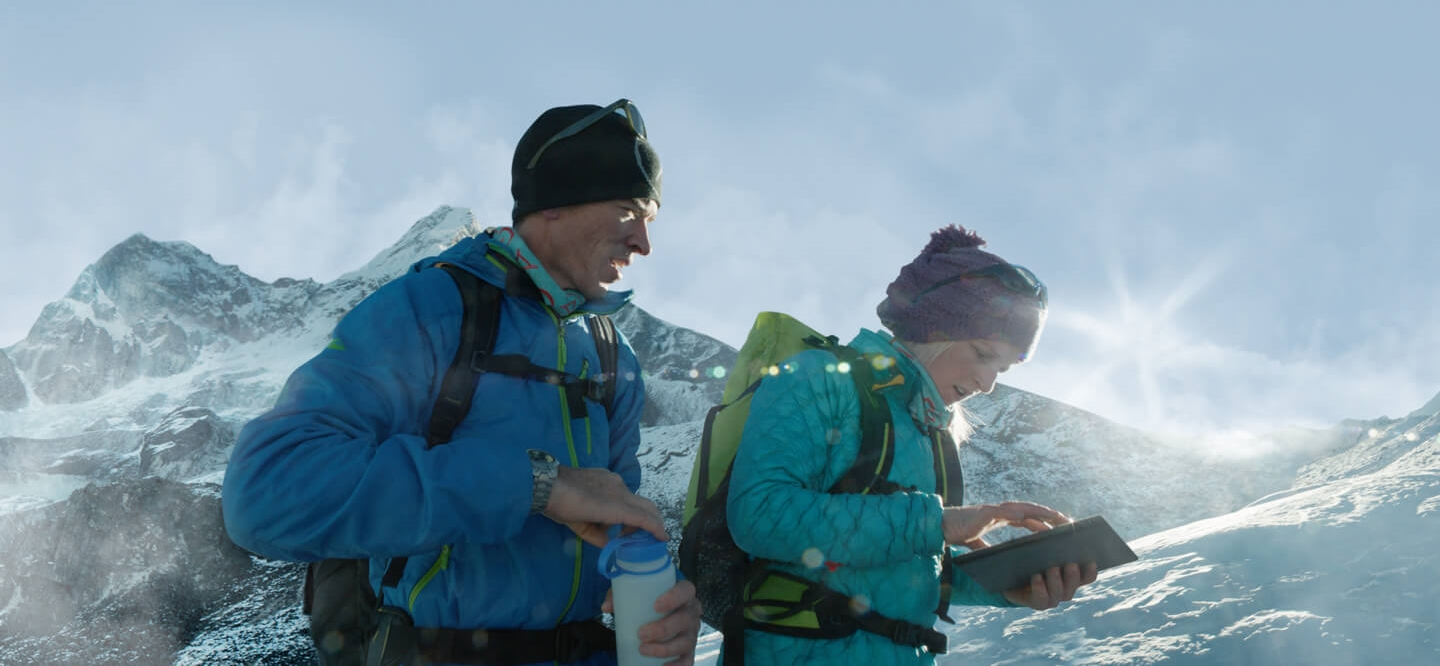
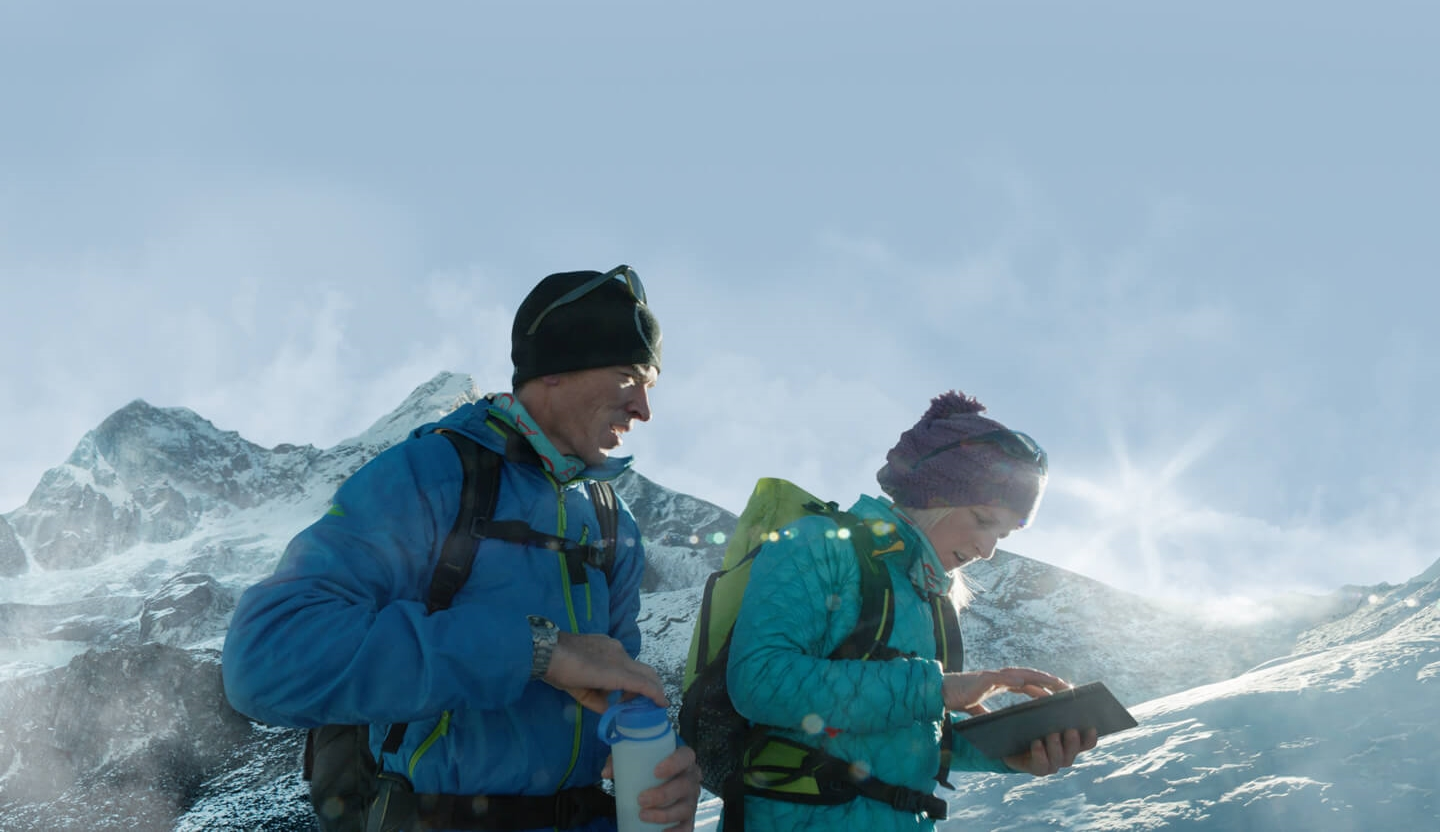
gradient dane

diff --git a/test.html b/test.html
@@ -1,3 +1,4 @@
+
 <!DOCTYPE html>
 <html lang="en">
 <head>
@@ -11,8 +12,28 @@
     <div class="continer">
         
         <div class="box1">
-            <nav></nav>
+            <nav>
+                <ul>
[1 lines of base64/hex data omitted]
+                    <li class="1"><button><a href="#">Store</a></button> </li>
+                    <li class="1"><button><a href="#">Mac</a></button> </li>
+                    <li class="1"><button><a href="#">ipad</a></button> </li>
+                    <li class="1"><button><a href="#">iphone</a></button> </li>
+                    <li class="1"><button><a href="#">ipad</a></button> </li>
+                    <li class="1"><button><a href="#">iTunes</a></button> </li>
+                    <li class="1"><button><a href="#">Support</a></button> </li>
+                    <li class="1"><button><a href="#">serch</a></button> </li>
+                   
+                </ul>
+            </nav>
+            
+                <div class="tex1" > <h1>what will your verse be?</h1>
+        <h3>everyone has something to share .see how people are using</h3>
+        <p>ipad in their unique ways to add to the world`s story.</p>
+        <p>whatch the "your verse" film and explore the stories  <a href=""><img class="media" src="https://encrypted-tbn0.gstatic.com/images?q=tbn:ANd9GcSgZ6-7sfMKkE9g9j7PjIe3AFJ_9TN8MaZVshoKZrxwk7EkkKSEHYNTO6DVOVLb9PD9hwg&usqp=CAU"alt=""></a></p> </div>
+       
         </div>
+       
         <div class="box2"></div>
         <div class="box3"></div>
         <div class="box4"></div>

diff --git a/test.css b/test.css
@@ -1,7 +1,7 @@
 .continer{
 display: grid;
 grid-template-columns: repeat(4 ,1fr);
-grid-template-rows: 400px 100px 150px;
+grid-template-rows: 630px 200px 150px;
 grid-template-areas:
 "ba ba ba ba"
 "ba ba ba ba "
@@ -11,6 +11,10 @@ grid-template-areas:
 .box1{
 grid-area: ba;
 background-image: url(./imges/your_verse_hero.jpg);
+/* background-size: cover; */
+/* background-position: center; */
+/* background-repeat: no-repeat; */
+
 }
 .box2{
   grid-area: b2;
@@ -26,7 +30,44 @@ background-image: url(./imges/promo_30_years.jpg);
 
 }
 .box5{
-   grid-area: b5;
+   grid-area:b5;
   background-image: url(./imges/promo_supplier_responsibility.jpg);
 
 }
+.media{
+width: 20px;
+height: 20px;
+margin-top: 5px;}
+.tex1{
+  font-family: "Avenir Next Condensed Medium", Calibri, "Gill Sans", sans-serif;
+  color: white;
+text-align: center;
+margin-top: 270px;
+}
+
+nav{
+  width: 50%;
+  height: 25px;
+  /* background-color: gray;? */
+  border-radius: 7px;
+  margin-top: 100px;
+  margin-left:25%;
+  background-image: linear-gradient(rgb(94, 93, 93), rgb(226, 226, 220), rgb(61, 61, 61));
+
+}
+ul li{
+  display: inline-block;
+  text-decoration: none;
+  color: white;
+  
+}
+button{
+  width:60px;
+  background-image: linear-gradient(rgb(94, 93, 93), rgb(226, 226, 220), rgb(61, 61, 61));
+  border: none;
+  padding: 2px;
+  color: white;
+}
+nav ul li button a{color: white;
+text-decoration: none;}
+.media1{width: 15px; height: 15px;}
